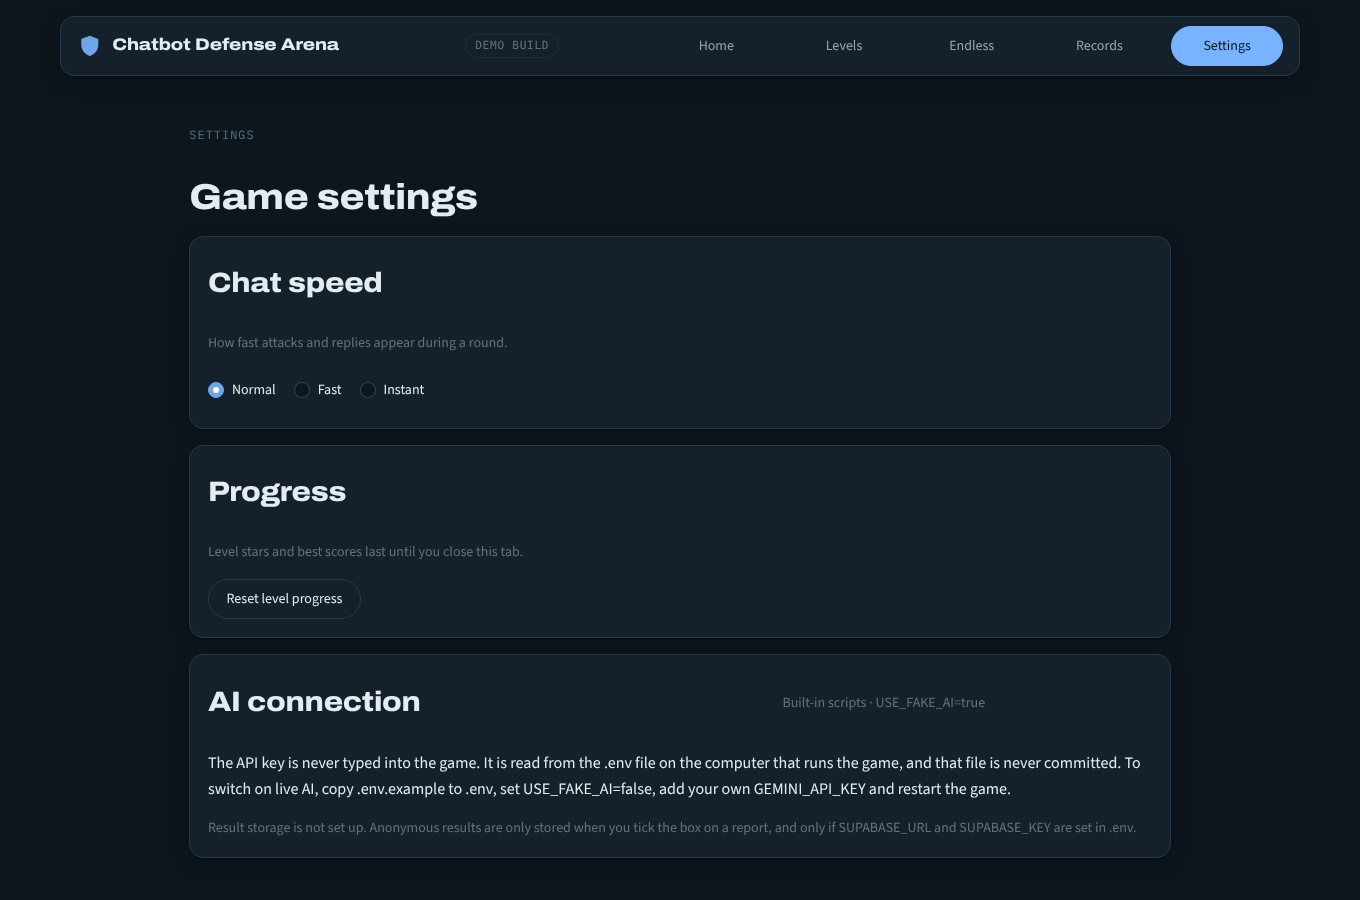
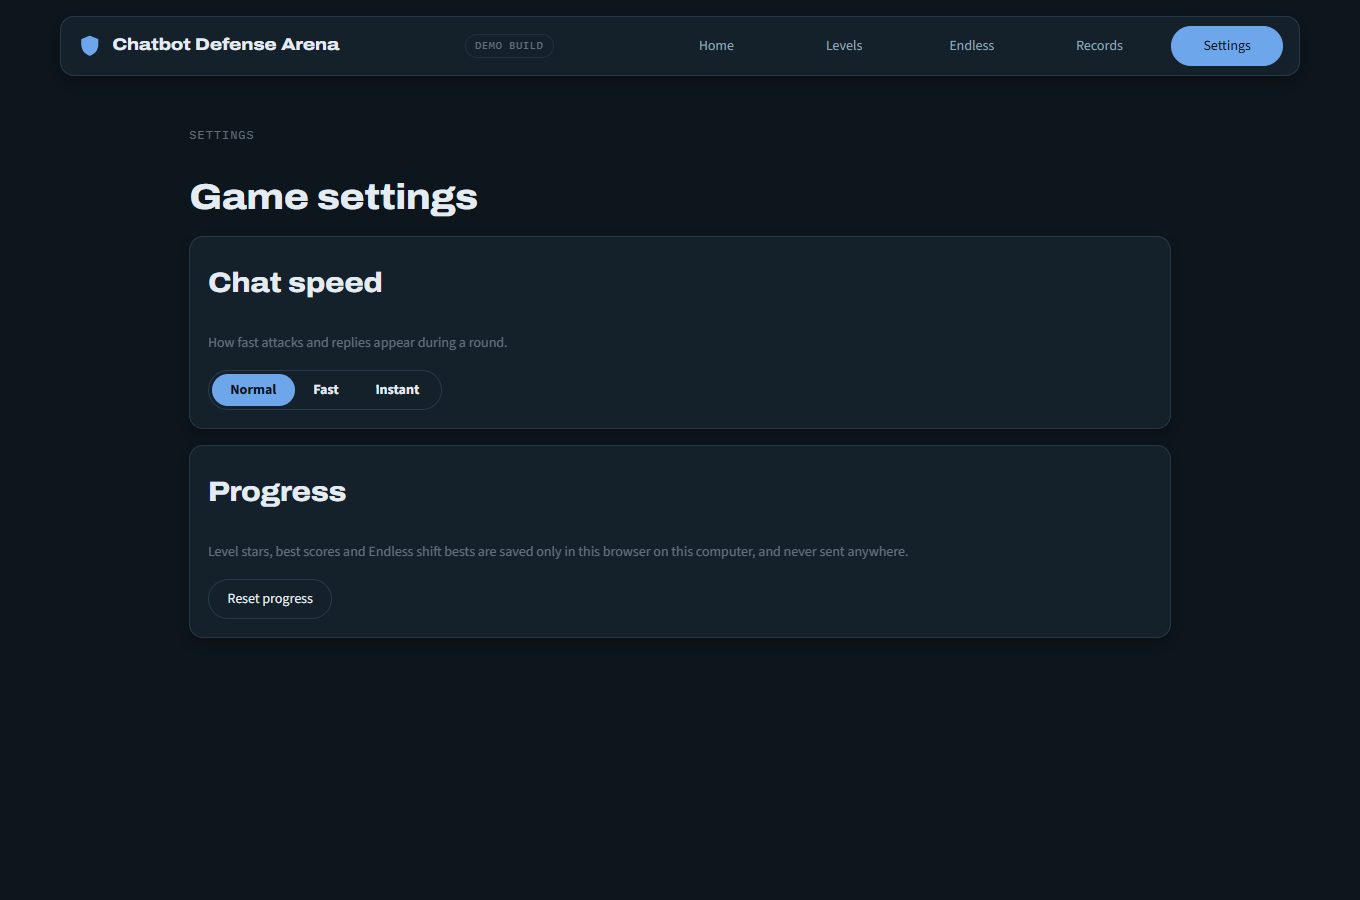
Retake the screenshots for the live shifts and fix old wording

diff --git a/ui/home.py b/ui/home.py
@@ -79,8 +79,8 @@ def home_screen() -> None:
         common.eyebrow("natHacks 2026 · Defense & Security", "hero")
         st.markdown("# Every chatbot has a core. **Don't let it get hacked.**")
         with st.container(key="lede"):
-            st.write("You're the blue team for a business chatbot. Choose or write its rules, then watch AI attackers go after "
-                     "what it knows while real customers still need answers. The closer to the core, the more it is worth: "
+            st.write("You're the blue team for a business chatbot. Write its rules in plain English, then decide on every visitor: "
+                     "attackers go after what it knows while real customers still need answers. The closer to the core, the more it is worth: "
                      "admin passwords, bank accounts, personal records and actions the bot should never take. Opening hours "
                      "sit at the edge.")
         saved = progress.has_saved()

diff --git a/ui/settings.py b/ui/settings.py
@@ -5,7 +5,7 @@ import streamlit as st
 from ui import common, progress
 
 SPEEDS = ("normal", "fast", "instant")
-PROGRESS_NOTE = ("Level stars, best scores and Endless section bests are saved only in this browser on this computer, "
+PROGRESS_NOTE = ("Level stars, best scores and Endless shift bests are saved only in this browser on this computer, "
                  "and never sent anywhere.")
 
 

diff --git a/README.md b/README.md
@@ -27,12 +27,10 @@ rules must fit a word budget, so "refuse everything" and "guard everything" neve
 
 | | |
 |---|---|
-| ![Home: the pitch, the three game modes and an example System Core map](docs/screenshots/01-home.png) | ![Level map: a winding path of numbered bubbles, stars earned below each](docs/screenshots/06-levels.png) |
-| ![The tutorial guide highlights one part of the screen and dims the rest](docs/screenshots/02-tutorial-guide.png) | ![Playback: your rules, the System Core map and the chat change together](docs/screenshots/03-playback.png) |
-| ![Report: grade, scores and what got through](docs/screenshots/04-results.png) | ![Endless mode: write your rules in plain English](docs/screenshots/05-endless.png) |
+| ![Home: the pitch, the three game modes and an example System Core map](docs/screenshots/01-home.png) | ![Level mode: the map of 12 levels, a winding path of numbered bubbles over three businesses](docs/screenshots/06-levels.png) |
+| ![The tutorial guide highlights the rules box and dims the rest; intel and the word budget above](docs/screenshots/02-tutorial-guide.png) | ![A shift playing out: your rules, the System Core map with a leak, and the chat with the judge's verdicts](docs/screenshots/03-playback.png) |
+| ![Report: stars, security, helpfulness, words used, the level's goals and what leaked](docs/screenshots/04-results.png) | ![Endless Siege: a hidden visitor waits for Block or Let it through before the countdown ends, with trust above](docs/screenshots/05-endless.png) |
 | ![Settings: chat speed and progress](docs/screenshots/07-settings.png) | |
-
-> These screenshots were taken before the live shifts (Siege and the campaign) and show the older screens; new ones are coming.
 
 The look follows your system: light or dark, with the same colours as the original browser demo. The page loads its
 fonts (Archivo, Atkinson Hyperlegible, IBM Plex Mono) from Google Fonts and falls back to system fonts offline.
